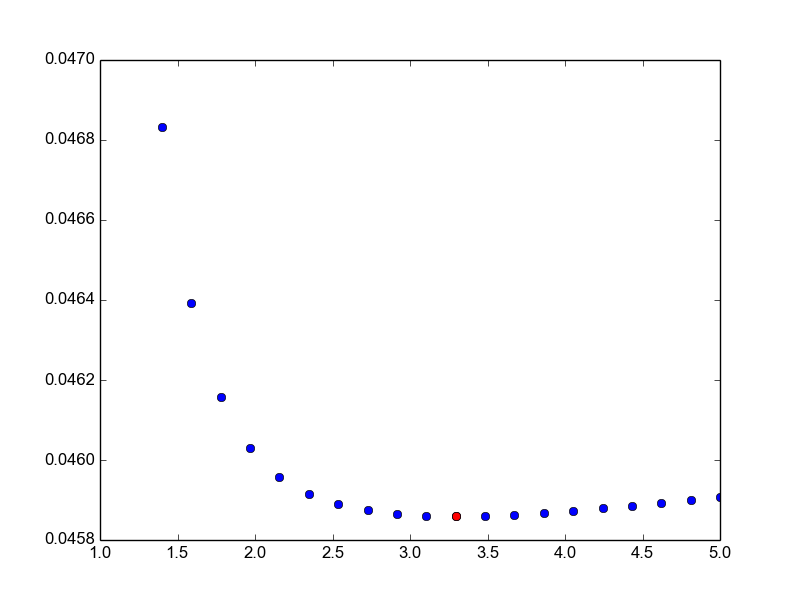
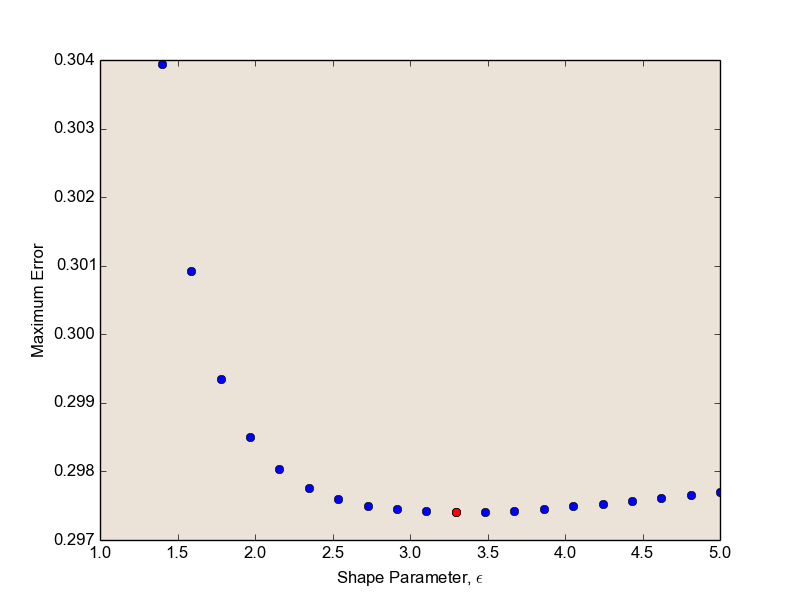
Changed background in optimization curve

diff --git a/Figures/DemoFigures.py b/Figures/DemoFigures.py
@@ -89,7 +89,7 @@ def makefinegrid():
     mlab.points3d(coor.x, coor.y, coor.z, 
                       scale_factor=0.1,colormap='spectral')
     savefig('finegrid.png')
-
+makefinegrid()
 
 def uniform_spherical_distribution(N):
     """n points distributed evenly on the surface of a unit sphere"""
@@ -141,7 +141,7 @@ def makecoarsegrid():
     mlab.triangular_mesh(coor.x,coor.y,coor.z,sphere.faces,colormap='spectral')
     savefig('coarsegrid.png')
     mlab.close()
-makecoarsegrid()
+# makecoarsegrid()
 
 
 def make_sphere(coordinates):
@@ -237,4 +237,32 @@ def makemayavifigs():
 
     make_figures(coor, function, interp_values, error)
 
-makemayavifigs()
+# makemayavifigs()
+coor = coordinates(300j, 100)
+
+    #Create sphere object
+sphere = make_sphere(coor.coarse)
+                                                                                                                                                                        
+    # Harmonic function we'll interpolate
+function = harmonic(3, 4, coor)
+
+errors=[]
+epsilons = np.linspace(1.4,5,20)
+for epsilon in epsilons:
+    interp_values = rbf_interpolate(coor, function.coarse, epsilon=epsilon)
+    error = interp_error(function.fine, interp_values)
+    maxerror =  error.max
+    errors.append(maxerror)
+
+fig, ax = plt.subplots(facecolor=bgcol)                                                                                                                                                                                                                                                                                                                                                                
+ax.set_axis_bgcolor(bgcol)
+ax.set_xlabel('Shape Parameter, $\epsilon$')
+ax.set_ylabel('Maximum Error')
+plt.plot(epsilons,errors, 'bo')
+optimum = errors.index(np.min(errors))
+plt.plot(epsilons[optimum],errors[optimum],'ro')
+plt.savefig('optimizationcurve')                                                                                                                                                                                                                                                                                                                                                                                                                                                                                                                                                                                                                                                                                                                                                                                                                                                                                                                                                                                                                                                                                                                                                                                                                                                                                                                                                                                                                                                                                                                                                                                                                                                                                                                                                                                                                                                                                                                                                                                                                                                                                                                                                                                                                                                                                                                                                                                                                                                                                                                                                                                                                                                                                                                                                                                                                                                                                                                                                                                                                                                                                                                                                                                                                                                                                                                                                                                                                                                                                                                                                                                                                                                                                                                                                                                                                                                                                                                                                                                                                                                                                                                                                                                                                                                                                                                                                                                                                                                                                                                                                                                                                                                                                                                                                                                                                                                                                                                                                                                                                                                                                                                                                                                                                                                                                                                                                                                                                                                                                                                                                                                                                                                                                                                                                                                                                                                                                                                                                                                                                                                                                                                                                                                                                                                                                                                                                                                                                                                                                                                                                                                                                                                                                                                                                                                                                                                                                                                                                                                                                                                                                                                                                                                                                                                                                                                                                                                                                                                                                                                                                                                                                                                                                                                                                                                                                                                                                                                                                                                                                                                                                                                                                                                                                                                                                                                                                                                                                                                                                                                                                                                                                                                                                                                                                                                                                                                                                                                                                                                                                                                                                                                                                                                                                                                                                                                                                                                                                                                                                                                                                                                                                                                                                                                                                                                                                                                                                                                                                                                                                                                                                                                                                                                                                                                                                                                                                                                                                                                                                                                                                                                                                                                                                                                                                                                                                                                                                                                                                                                                                                                                                                                                                                                                                                                                                                                                                                                                                                                                                                                                                                                                                                                                                                                                                                                                                                                                                                                                                                                                                                                                                                                                                                                                                                                                                                                                                                                                                                                                                                                                                                                                                                                                                                                                                                                                                                                                                                                                                                                                                                                                                                                                                                                                                                                                                                                                                                                                                                                                                                                                                                                                                                                                                                                                                                                                                                                                                                                                                                                                                                                                                                                                                                                                                                                                                                                                                                                                                                                                                                                                                                                                                                                                                                                                                                                                                                                                                                                                                                                                                                                                                                                                                                                                                                                                                                                                                                                                                                                                                                                                                                                                                                                                                                                                                                                                                                                                                                                                                                                                                                                                                                                                                                                                                                                                                                                                                                                                                                                                                                                                                                                                                                                                                                                                                                                                                                                                                                                                                                                                                                                                                                                                                                                                                                                                                                                                                                                                                                                                                                                                                                                                                                                                                                                                                                                                                                                                                                                                                                                                                                                                                                                                                                                                                                                                                                                                                                                                                                                                                                                                                                                                                                                                                                                                                                                                                                                                                                                                                                                                                                                                                                                                                                                                                                                                                                                                                                                                                                                                                                                                                                                                                                                                                                                                                                                                                                                                                                                                                                                                                                                                                                                                                                                                                                                                                                                                                                                                                                                                                                                                                                                        
+plt.show()
+
+
+
